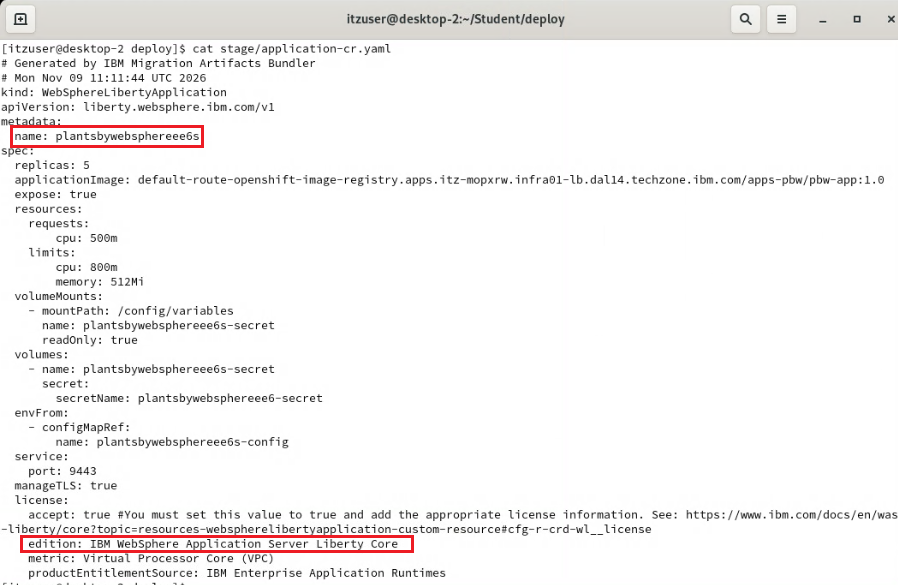
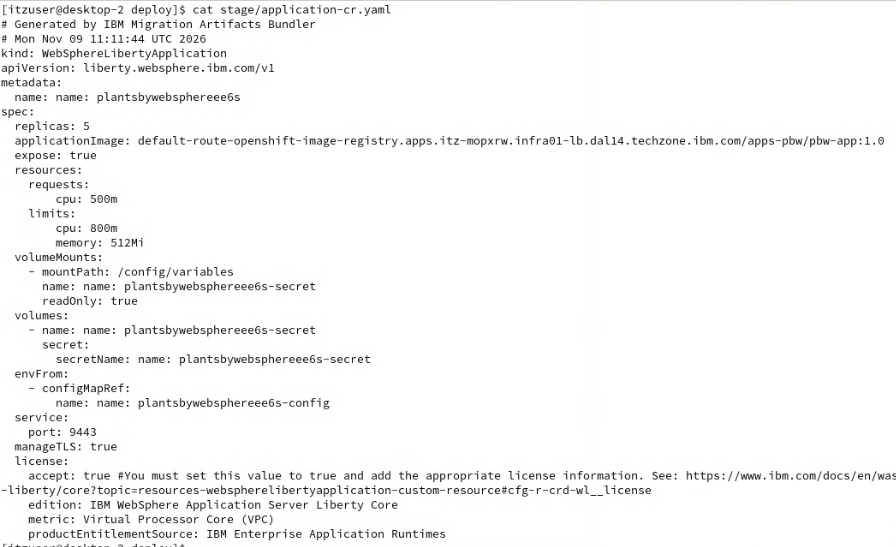
Fix sed command

Changed region(s): [[0.0, 0.0, 1.0, 1.0]]

diff --git a/ILS_README.md b/ILS_README.md
@@ -667,7 +667,7 @@ The current deployment assumes that the application requires Liberty Base entitl
 
     2. For the stage environment, change the deployment name
 
-           sed -i "s|plantsbywebsphereee6|name: plantsbywebsphereee6s|g" stage/application-cr.yaml
+           sed -i "s|plantsbywebsphereee6|plantsbywebsphereee6s|g" stage/application-cr.yaml
            mv stage/plantsbywebsphereee6-configmap.yaml  stage/plantsbywebsphereee6a-configmap.yaml
            mv stage/plantsbywebsphereee6-secret.yaml stage/plantsbywebsphereee6s-secret.yaml
 
